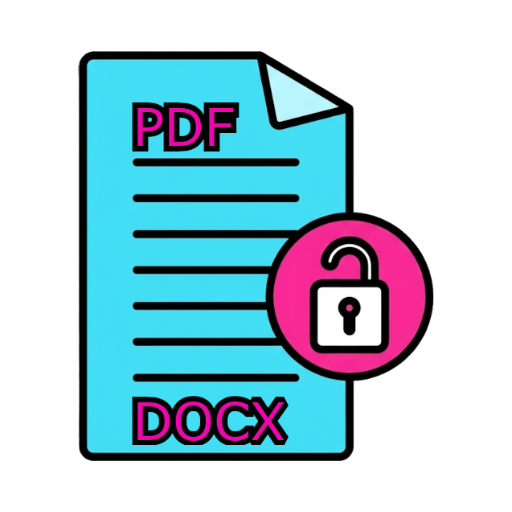
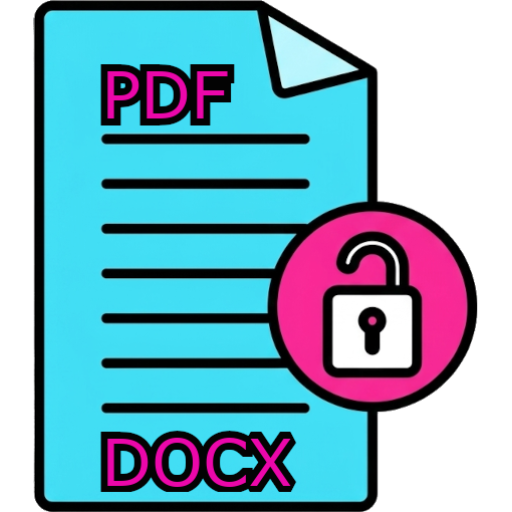
Иконка OneDoc на всю видимую высоту маски
- Рисунок foreground и монохромного слоя — 72 dp из 108 вместо 54:
  без белых полей сверху и снизу, углы листа подрезает маска.
- Иконка для Play (art/play_icon_512.png) — рисунок на всю высоту квадрата.
- NEXT_STEPS.md: параметры иконки и что где проверено.

diff --git a/NEXT_STEPS.md b/NEXT_STEPS.md
@@ -135,10 +135,10 @@
    - Проверено: сборка, 138 юнит-тестов, lint, release с R8 (в `mapping.txt` 0 классов сменили пакет), инструментальные тесты 11/11 на API 37 и API 26.
    - На эмуляторах новое приложение стоит рядом со старым `io.doccraftstudio.onedoc` (старое не удалялось).
 3. ~~Иконка приложения~~ — выполнено 25.10.2026 по рисунку пользователя `art/OneDoc_icon.png` (512×512, прозрачный фон).
-   - Адаптивная: фон — белый цвет (`values/ic_launcher_background.xml`), foreground и monochrome — PNG в `mipmap-*dpi/` (108 dp, рисунок высотой 54 dp — целиком виден даже в круглой маске). Monochrome — тёмные контуры рисунка.
+   - Адаптивная: фон — белый цвет (`values/ic_launcher_background.xml`), foreground и monochrome — PNG в `mipmap-*dpi/` (108 dp; по просьбе пользователя рисунок на всю видимую высоту маски — 72 dp, без белых полей сверху и снизу; в круглой маске срезаются углы листа и низ надписи «DOCX»; первая версия — 54 dp, вторая — 68 dp). Monochrome — тёмные контуры рисунка.
    - Шаблонные `drawable/ic_launcher_*.xml` и `mipmap-*/ic_launcher*.webp` удалены: при minSdk 26 всегда используется адаптивная иконка из `mipmap-anydpi/`.
-   - Иконка для Play — `art/play_icon_512.png` (белый квадрат без прозрачности).
-   - Проверено: лаунчер API 37 и API 26, тематическая иконка на API 37 (стиль значков «Minimal» в «Обои и стиль»; работает только на главном экране). После проверки эмулятор возвращён к «Default».
+   - Иконка для Play — `art/play_icon_512.png` (белый квадрат без прозрачности, рисунок на всю высоту; Play сам скругляет углы).
+   - Итоговая версия (72 dp) поставлена на телефон пользователя по его просьбе; эмуляторы проверены с версией 54 dp: лаунчер API 37 и API 26, тематическая иконка на API 37 (стиль значков «Minimal» в «Обои и стиль»; работает только на главном экране). После проверки эмулятор возвращён к «Default».
    - Слои нарезала разовая программа на Java (`IconGen.java`, в репозиторий не добавлена); при смене рисунка нужно нарезать заново.
 4. Ключ подписи release:
    - keystore — вне репозитория;
